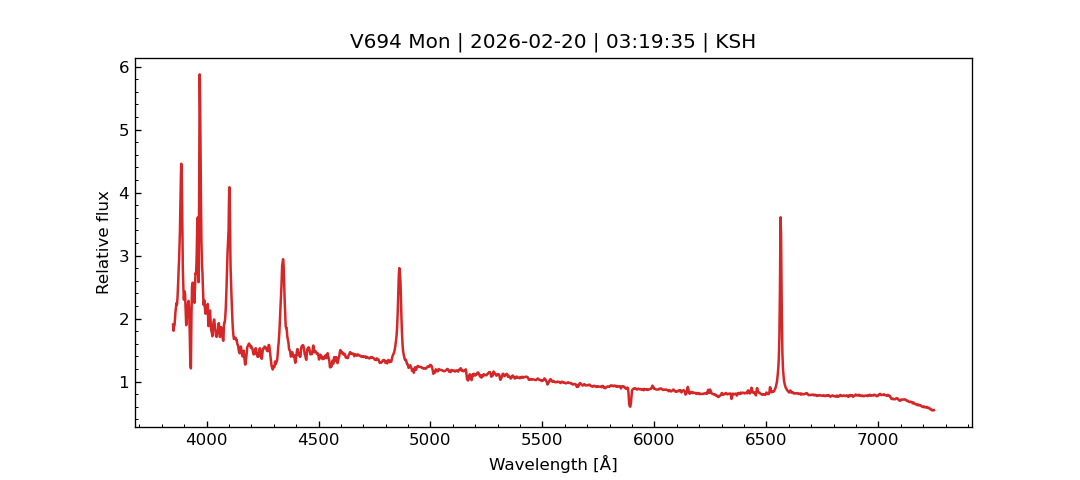
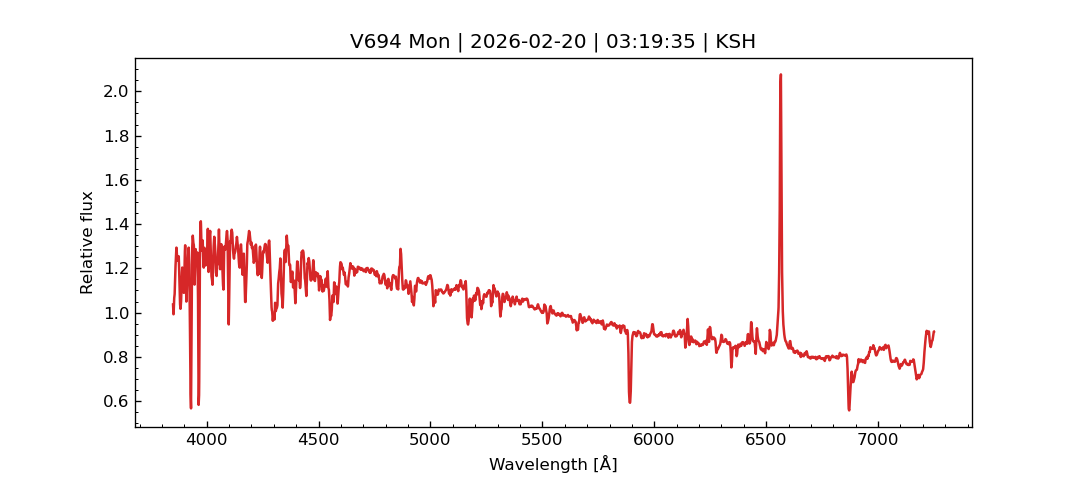
*

diff --git a/bxmon.html b/bxmon.html
@@ -97,9 +97,9 @@
     <div class="card">
       <div class="card-body">
 
-        <p class="card-text">Number of spectra:   218</p>
+        <p class="card-text">Number of spectra:   219</p>
 <p class="card-text">First spectrum:   2011-04-04</p>
-<p class="card-text">Last spectrum:   2026-03-31</p>
+<p class="card-text">Last spectrum:   2026-04-08</p>
 <br><br>
 <p class="card-text" style="margin-bottom:0.055cm;"><i>send spectra to francoismathieu.teyssier [at] gmail.com & arasdatabase [at] gmail.com</i></p>
       </div>
@@ -108,7 +108,7 @@
 
 </div>
 
-<br><style>table {text-align: center;}table thead th {text-align: center;}</style><a href="archives/bxmon.zip" class="btn btn-secondary">Download all spectra as *.zip file (21.6 MB)</a>
+<br><style>table {text-align: center;}table thead th {text-align: center;}</style><a href="archives/bxmon.zip" class="btn btn-secondary">Download all spectra as *.zip file (22.0 MB)</a>
 <table class="dataframe display" id="table_id">
   <thead>
     <tr style="text-align: right;">
@@ -128,6 +128,21 @@
     </tr>
   </thead>
   <tbody>
+    <tr>
+      <td>2026-04-08</td>
+      <td>03:42</td>
+      <td>61138.655</td>
+      <td>FAS</td>
+      <td>DCO-US</td>
+      <td>9000</td>
+      <td><svg xmlns="http://www.w3.org/2000/svg" width="5" height="16" fill="#007bff" class="bi bi-square-fill" viewBox="1 0 5 16"><path d="M0 2a2 2 0 0 1 2-2h12a2 2 0 0 1 2 2v12a2 2 0 0 1-2 2H2a2 2 0 0 1-2-2V2z"/></svg><svg xmlns="http://www.w3.org/2000/svg" width="5" height="16" fill="#007bff" class="bi bi-square-fill" viewBox="1 0 5 16"><path d="M0 2a2 2 0 0 1 2-2h12a2 2 0 0 1 2 2v12a2 2 0 0 1-2 2H2a2 2 0 0 1-2-2V2z"/></svg><svg xmlns="http://www.w3.org/2000/svg" width="5" height="16" fill="#007bff" class="bi bi-square-fill" viewBox="1 0 5 16"><path d="M0 2a2 2 0 0 1 2-2h12a2 2 0 0 1 2 2v12a2 2 0 0 1-2 2H2a2 2 0 0 1-2-2V2z"/></svg><svg xmlns="http://www.w3.org/2000/svg" width="5" height="16" fill="#007bff" class="bi bi-square-fill" viewBox="1 0 5 16"><path d="M0 2a2 2 0 0 1 2-2h12a2 2 0 0 1 2 2v12a2 2 0 0 1-2 2H2a2 2 0 0 1-2-2V2z"/></svg><svg xmlns="http://www.w3.org/2000/svg" width="5" height="16" fill="#007bff" class="bi bi-square-fill" viewBox="1 0 5 16"><path d="M0 2a2 2 0 0 1 2-2h12a2 2 0 0 1 2 2v12a2 2 0 0 1-2 2H2a2 2 0 0 1-2-2V2z"/></svg></td>
+      <td>3800</td>
+      <td>9000</td>
+      <td><svg xmlns="http://www.w3.org/2000/svg" width="5" height="16" fill="#151B8D" class="bi bi-square-fill" viewBox="1 0 5 16"><path d="M0 2a2 2 0 0 1 2-2h12a2 2 0 0 1 2 2v12a2 2 0 0 1-2 2H2a2 2 0 0 1-2-2V2z"/></svg><svg xmlns="http://www.w3.org/2000/svg" width="5" height="16" fill="#4AA02C" class="bi bi-square-fill" viewBox="1 0 5 16"><path d="M0 2a2 2 0 0 1 2-2h12a2 2 0 0 1 2 2v12a2 2 0 0 1-2 2H2a2 2 0 0 1-2-2V2z"/></svg><svg xmlns="http://www.w3.org/2000/svg" width="5" height="16" fill="#EAC117" class="bi bi-square-fill" viewBox="1 0 5 16"><path d="M0 2a2 2 0 0 1 2-2h12a2 2 0 0 1 2 2v12a2 2 0 0 1-2 2H2a2 2 0 0 1-2-2V2z"/></svg><svg xmlns="http://www.w3.org/2000/svg" width="5" height="16" fill="#E42217" class="bi bi-square-fill" viewBox="1 0 5 16"><path d="M0 2a2 2 0 0 1 2-2h12a2 2 0 0 1 2 2v12a2 2 0 0 1-2 2H2a2 2 0 0 1-2-2V2z"/></svg><svg xmlns="http://www.w3.org/2000/svg" width="5" height="16" fill="#8C001A" class="bi bi-square-fill" viewBox="1 0 5 16"><path d="M0 2a2 2 0 0 1 2-2h12a2 2 0 0 1 2 2v12a2 2 0 0 1-2 2H2a2 2 0 0 1-2-2V2z"/></svg></td>
+      <td><a href="spectra/asdb_bxmon_20260408_154.fit" download target="_blank"><svg width="1em" height="1em" viewBox="0 0 16 16" class="bi bi-download" fill="currentColor" xmlns="http://www.w3.org/2000/svg"><path fill-rule="evenodd" d="M.5 8a.5.5 0 0 1 .5.5V12a1 1 0 0 0 1 1h12a1 1 0 0 0 1-1V8.5a.5.5 0 0 1 1 0V12a2 2 0 0 1-2 2H2a2 2 0 0 1-2-2V8.5A.5.5 0 0 1 .5 8z"/><path fill-rule="evenodd" d="M5 7.5a.5.5 0 0 1 .707 0L8 9.793 10.293 7.5a.5.5 0 1 1 .707.707l-2.646 2.647a.5.5 0 0 1-.708 0L5 8.207A.5.5 0 0 1 5 7.5z"/><path fill-rule="evenodd" d="M8 1a.5.5 0 0 1 .5.5v8a.5.5 0 0 1-1 0v-8A.5.5 0 0 1 8 1z"/></svg></a></td>
+      <td><a href="figures/asdb_bxmon_20260408_154.png" target="_blank"><svg width="1em" height="1em" viewBox="0 0 16 16" class="bi bi-eye" fill="currentColor" xmlns="http://www.w3.org/2000/svg"><path fill-rule="evenodd" d="M16 8s-3-5.5-8-5.5S0 8 0 8s3 5.5 8 5.5S16 8 16 8zM1.173 8a13.134 13.134 0 0 0 1.66 2.043C4.12 11.332 5.88 12.5 8 12.5c2.12 0 3.879-1.168 5.168-2.457A13.134 13.134 0 0 0 14.828 8a13.133 13.133 0 0 0-1.66-2.043C11.879 4.668 10.119 3.5 8 3.5c-2.12 0-3.879 1.168-5.168 2.457A13.133 13.133 0 0 0 1.172 8z"/><path fill-rule="evenodd" d="M8 5.5a2.5 2.5 0 1 0 0 5 2.5 2.5 0 0 0 0-5zM4.5 8a3.5 3.5 0 1 1 7 0 3.5 3.5 0 0 1-7 0z"/></svg></a></td>
+      <td></td>
+    </tr>
     <tr>
       <td>2026-03-31</td>
       <td>22:23</td>

diff --git a/sulyn.html b/sulyn.html
@@ -97,9 +97,9 @@
     <div class="card">
       <div class="card-body">
 
-        <p class="card-text">Number of spectra:   305</p>
+        <p class="card-text">Number of spectra:   306</p>
 <p class="card-text">First spectrum:   2016-05-02</p>
-<p class="card-text">Last spectrum:   2026-03-28</p>
+<p class="card-text">Last spectrum:   2026-04-08</p>
 <br><br>
 <p class="card-text" style="margin-bottom:0.055cm;"><i>send spectra to francoismathieu.teyssier [at] gmail.com & arasdatabase [at] gmail.com</i></p>
       </div>
@@ -108,7 +108,7 @@
 
 </div>
 
-<br><style>table {text-align: center;}table thead th {text-align: center;}</style><a href="archives/sulyn.zip" class="btn btn-secondary">Download all spectra as *.zip file (33.9 MB)</a>
+<br><style>table {text-align: center;}table thead th {text-align: center;}</style><a href="archives/sulyn.zip" class="btn btn-secondary">Download all spectra as *.zip file (34.3 MB)</a>
 <table class="dataframe display" id="table_id">
   <thead>
     <tr style="text-align: right;">
@@ -128,6 +128,21 @@
     </tr>
   </thead>
   <tbody>
+    <tr>
+      <td>2026-04-08</td>
+      <td>05:19</td>
+      <td>61138.722</td>
+      <td>FAS</td>
+      <td>DCO-US</td>
+      <td>9000</td>
+      <td><svg xmlns="http://www.w3.org/2000/svg" width="5" height="16" fill="#007bff" class="bi bi-square-fill" viewBox="1 0 5 16"><path d="M0 2a2 2 0 0 1 2-2h12a2 2 0 0 1 2 2v12a2 2 0 0 1-2 2H2a2 2 0 0 1-2-2V2z"/></svg><svg xmlns="http://www.w3.org/2000/svg" width="5" height="16" fill="#007bff" class="bi bi-square-fill" viewBox="1 0 5 16"><path d="M0 2a2 2 0 0 1 2-2h12a2 2 0 0 1 2 2v12a2 2 0 0 1-2 2H2a2 2 0 0 1-2-2V2z"/></svg><svg xmlns="http://www.w3.org/2000/svg" width="5" height="16" fill="#007bff" class="bi bi-square-fill" viewBox="1 0 5 16"><path d="M0 2a2 2 0 0 1 2-2h12a2 2 0 0 1 2 2v12a2 2 0 0 1-2 2H2a2 2 0 0 1-2-2V2z"/></svg><svg xmlns="http://www.w3.org/2000/svg" width="5" height="16" fill="#007bff" class="bi bi-square-fill" viewBox="1 0 5 16"><path d="M0 2a2 2 0 0 1 2-2h12a2 2 0 0 1 2 2v12a2 2 0 0 1-2 2H2a2 2 0 0 1-2-2V2z"/></svg><svg xmlns="http://www.w3.org/2000/svg" width="5" height="16" fill="#007bff" class="bi bi-square-fill" viewBox="1 0 5 16"><path d="M0 2a2 2 0 0 1 2-2h12a2 2 0 0 1 2 2v12a2 2 0 0 1-2 2H2a2 2 0 0 1-2-2V2z"/></svg></td>
+      <td>3750</td>
+      <td>9250</td>
+      <td><svg xmlns="http://www.w3.org/2000/svg" width="5" height="16" fill="#151B8D" class="bi bi-square-fill" viewBox="1 0 5 16"><path d="M0 2a2 2 0 0 1 2-2h12a2 2 0 0 1 2 2v12a2 2 0 0 1-2 2H2a2 2 0 0 1-2-2V2z"/></svg><svg xmlns="http://www.w3.org/2000/svg" width="5" height="16" fill="#4AA02C" class="bi bi-square-fill" viewBox="1 0 5 16"><path d="M0 2a2 2 0 0 1 2-2h12a2 2 0 0 1 2 2v12a2 2 0 0 1-2 2H2a2 2 0 0 1-2-2V2z"/></svg><svg xmlns="http://www.w3.org/2000/svg" width="5" height="16" fill="#EAC117" class="bi bi-square-fill" viewBox="1 0 5 16"><path d="M0 2a2 2 0 0 1 2-2h12a2 2 0 0 1 2 2v12a2 2 0 0 1-2 2H2a2 2 0 0 1-2-2V2z"/></svg><svg xmlns="http://www.w3.org/2000/svg" width="5" height="16" fill="#E42217" class="bi bi-square-fill" viewBox="1 0 5 16"><path d="M0 2a2 2 0 0 1 2-2h12a2 2 0 0 1 2 2v12a2 2 0 0 1-2 2H2a2 2 0 0 1-2-2V2z"/></svg><svg xmlns="http://www.w3.org/2000/svg" width="5" height="16" fill="#8C001A" class="bi bi-square-fill" viewBox="1 0 5 16"><path d="M0 2a2 2 0 0 1 2-2h12a2 2 0 0 1 2 2v12a2 2 0 0 1-2 2H2a2 2 0 0 1-2-2V2z"/></svg></td>
+      <td><a href="spectra/asdb_sulyn_20260408_221.fit" download target="_blank"><svg width="1em" height="1em" viewBox="0 0 16 16" class="bi bi-download" fill="currentColor" xmlns="http://www.w3.org/2000/svg"><path fill-rule="evenodd" d="M.5 8a.5.5 0 0 1 .5.5V12a1 1 0 0 0 1 1h12a1 1 0 0 0 1-1V8.5a.5.5 0 0 1 1 0V12a2 2 0 0 1-2 2H2a2 2 0 0 1-2-2V8.5A.5.5 0 0 1 .5 8z"/><path fill-rule="evenodd" d="M5 7.5a.5.5 0 0 1 .707 0L8 9.793 10.293 7.5a.5.5 0 1 1 .707.707l-2.646 2.647a.5.5 0 0 1-.708 0L5 8.207A.5.5 0 0 1 5 7.5z"/><path fill-rule="evenodd" d="M8 1a.5.5 0 0 1 .5.5v8a.5.5 0 0 1-1 0v-8A.5.5 0 0 1 8 1z"/></svg></a></td>
+      <td><a href="figures/asdb_sulyn_20260408_221.png" target="_blank"><svg width="1em" height="1em" viewBox="0 0 16 16" class="bi bi-eye" fill="currentColor" xmlns="http://www.w3.org/2000/svg"><path fill-rule="evenodd" d="M16 8s-3-5.5-8-5.5S0 8 0 8s3 5.5 8 5.5S16 8 16 8zM1.173 8a13.134 13.134 0 0 0 1.66 2.043C4.12 11.332 5.88 12.5 8 12.5c2.12 0 3.879-1.168 5.168-2.457A13.134 13.134 0 0 0 14.828 8a13.133 13.133 0 0 0-1.66-2.043C11.879 4.668 10.119 3.5 8 3.5c-2.12 0-3.879 1.168-5.168 2.457A13.133 13.133 0 0 0 1.172 8z"/><path fill-rule="evenodd" d="M8 5.5a2.5 2.5 0 1 0 0 5 2.5 2.5 0 0 0 0-5zM4.5 8a3.5 3.5 0 1 1 7 0 3.5 3.5 0 0 1-7 0z"/></svg></a></td>
+      <td></td>
+    </tr>
     <tr>
       <td>2026-03-28</td>
       <td>22:13</td>

diff --git a/symbiotics.html b/symbiotics.html
@@ -75,8 +75,8 @@
  <a href="https://ui.adsabs.harvard.edu/abs/2019ApJS..240...21A/abstract">Symbiotic stars with 2MASS, WISE & Gaia</a></p>
  <style>table {text-align: center;}table thead th {text-align: center;}</style>
 <p class="card-text">Number of stars: 115
-</p><p class="card-text">Number of spectra: 11688
-</p><p class="card-text">Last update: 2026-04-08, 16:20</p>
+</p><p class="card-text">Number of spectra: 11691
+</p><p class="card-text">Last update: 2026-04-09, 13:40</p>
 <br><br>
 <a href="observers.html" class="btn btn-secondary">Observers</a>
         <a href="observatories.html" class="btn btn-secondary">Observatories</a>
@@ -316,10 +316,10 @@
       <td><a href="bxmon.html">BX Mon</a></td>
       <td>07 25 22.76</td>
       <td>-03 35 50.64</td>
-      <td>218</td>
+      <td>219</td>
       <td>2011-04-04</td>
-      <td>2026-03-31</td>
-      <td><script>var date1, date2;date1 = new Date();date2 = new Date( "2026-03-31 00:00:00" );var res = Math.abs(date1 - date2) / 1000;var days = Math.floor(res / 86400);document.write(days);</script></td>
+      <td>2026-04-08</td>
+      <td><script>var date1, date2;date1 = new Date();date2 = new Date( "2026-04-08 00:00:00" );var res = Math.abs(date1 - date2) / 1000;var days = Math.floor(res / 86400);document.write(days);</script></td>
       <td>30</td>
       <td>2</td>
       <td>2</td>
@@ -988,10 +988,10 @@
       <td><a href="sulyn.html">SU Lyn</a></td>
       <td>06 42 55.14</td>
       <td>[phone redacted]</td>
-      <td>305</td>
+      <td>306</td>
       <td>2016-05-02</td>
-      <td>2026-03-28</td>
-      <td><script>var date1, date2;date1 = new Date();date2 = new Date( "2026-03-28 00:00:00" );var res = Math.abs(date1 - date2) / 1000;var days = Math.floor(res / 86400);document.write(days);</script></td>
+      <td>2026-04-08</td>
+      <td><script>var date1, date2;date1 = new Date();date2 = new Date( "2026-04-08 00:00:00" );var res = Math.abs(date1 - date2) / 1000;var days = Math.floor(res / 86400);document.write(days);</script></td>
       <td>15</td>
       <td>1</td>
       <td>2</td>
@@ -1024,7 +1024,7 @@
       <td><a href="tcrb.html">T CrB</a></td>
       <td>15 59 30.16</td>
       <td>[phone redacted]</td>
-      <td>2036</td>
+      <td>2037</td>
       <td>2012-04-01</td>
       <td>2026-04-08</td>
       <td><script>var date1, date2;date1 = new Date();date2 = new Date( "2026-04-08 00:00:00" );var res = Math.abs(date1 - date2) / 1000;var days = Math.floor(res / 86400);document.write(days);</script></td>

diff --git a/dwarf_novae.html b/dwarf_novae.html
@@ -71,7 +71,7 @@
  <style>table {text-align: center;}table thead th {text-align: center;}</style>
 <p class="card-text">Number of stars: 43
 </p><p class="card-text">Number of spectra: 422
-</p><p class="card-text">Last update: 2026-04-08, 16:21</p>
+</p><p class="card-text">Last update: 2026-04-09, 13:40</p>
 <br><br>
 <a href="observers.html" class="btn btn-secondary">Observers</a>
         <a href="observatories.html" class="btn btn-secondary">Observatories</a>

diff --git a/novae.html b/novae.html
@@ -71,7 +71,7 @@
  <style>table {text-align: center;}table thead th {text-align: center;}</style>
 <p class="card-text">Number of stars: 79
 </p><p class="card-text">Number of spectra: 4763
-</p><p class="card-text">Last update: 2026-04-08, 16:21</p>
+</p><p class="card-text">Last update: 2026-04-09, 13:40</p>
 <br><br>
 <a href="observers.html" class="btn btn-secondary">Observers</a>
         <a href="observatories.html" class="btn btn-secondary">Observatories</a>

diff --git a/v694mon.html b/v694mon.html
@@ -257,7 +257,7 @@
       <td>1000</td>
       <td><svg xmlns="http://www.w3.org/2000/svg" width="5" height="16" fill="#007bff" class="bi bi-square-fill" viewBox="1 0 5 16"><path d="M0 2a2 2 0 0 1 2-2h12a2 2 0 0 1 2 2v12a2 2 0 0 1-2 2H2a2 2 0 0 1-2-2V2z"/></svg><svg xmlns="http://www.w3.org/2000/svg" width="5" height="16" fill="#007bff" class="bi bi-square-fill" viewBox="1 0 5 16"><path d="M0 2a2 2 0 0 1 2-2h12a2 2 0 0 1 2 2v12a2 2 0 0 1-2 2H2a2 2 0 0 1-2-2V2z"/></svg></td>
       <td>3850</td>
-      <td>7249</td>
+      <td>7250</td>
       <td><svg xmlns="http://www.w3.org/2000/svg" width="5" height="16" fill="#151B8D" class="bi bi-square-fill" viewBox="1 0 5 16"><path d="M0 2a2 2 0 0 1 2-2h12a2 2 0 0 1 2 2v12a2 2 0 0 1-2 2H2a2 2 0 0 1-2-2V2z"/></svg><svg xmlns="http://www.w3.org/2000/svg" width="5" height="16" fill="#4AA02C" class="bi bi-square-fill" viewBox="1 0 5 16"><path d="M0 2a2 2 0 0 1 2-2h12a2 2 0 0 1 2 2v12a2 2 0 0 1-2 2H2a2 2 0 0 1-2-2V2z"/></svg><svg xmlns="http://www.w3.org/2000/svg" width="5" height="16" fill="#EAC117" class="bi bi-square-fill" viewBox="1 0 5 16"><path d="M0 2a2 2 0 0 1 2-2h12a2 2 0 0 1 2 2v12a2 2 0 0 1-2 2H2a2 2 0 0 1-2-2V2z"/></svg><svg xmlns="http://www.w3.org/2000/svg" width="5" height="16" fill="#E42217" class="bi bi-square-fill" viewBox="1 0 5 16"><path d="M0 2a2 2 0 0 1 2-2h12a2 2 0 0 1 2 2v12a2 2 0 0 1-2 2H2a2 2 0 0 1-2-2V2z"/></svg></td>
       <td><a href="spectra/asdb_v694mon_20260220_138.fit" download target="_blank"><svg width="1em" height="1em" viewBox="0 0 16 16" class="bi bi-download" fill="currentColor" xmlns="http://www.w3.org/2000/svg"><path fill-rule="evenodd" d="M.5 8a.5.5 0 0 1 .5.5V12a1 1 0 0 0 1 1h12a1 1 0 0 0 1-1V8.5a.5.5 0 0 1 1 0V12a2 2 0 0 1-2 2H2a2 2 0 0 1-2-2V8.5A.5.5 0 0 1 .5 8z"/><path fill-rule="evenodd" d="M5 7.5a.5.5 0 0 1 .707 0L8 9.793 10.293 7.5a.5.5 0 1 1 .707.707l-2.646 2.647a.5.5 0 0 1-.708 0L5 8.207A.5.5 0 0 1 5 7.5z"/><path fill-rule="evenodd" d="M8 1a.5.5 0 0 1 .5.5v8a.5.5 0 0 1-1 0v-8A.5.5 0 0 1 8 1z"/></svg></a></td>
       <td><a href="figures/asdb_v694mon_20260220_138.png" target="_blank"><svg width="1em" height="1em" viewBox="0 0 16 16" class="bi bi-eye" fill="currentColor" xmlns="http://www.w3.org/2000/svg"><path fill-rule="evenodd" d="M16 8s-3-5.5-8-5.5S0 8 0 8s3 5.5 8 5.5S16 8 16 8zM1.173 8a13.134 13.134 0 0 0 1.66 2.043C4.12 11.332 5.88 12.5 8 12.5c2.12 0 3.879-1.168 5.168-2.457A13.134 13.134 0 0 0 14.828 8a13.133 13.133 0 0 0-1.66-2.043C11.879 4.668 10.119 3.5 8 3.5c-2.12 0-3.879 1.168-5.168 2.457A13.133 13.133 0 0 0 1.172 8z"/><path fill-rule="evenodd" d="M8 5.5a2.5 2.5 0 1 0 0 5 2.5 2.5 0 0 0 0-5zM4.5 8a3.5 3.5 0 1 1 7 0 3.5 3.5 0 0 1-7 0z"/></svg></a></td>